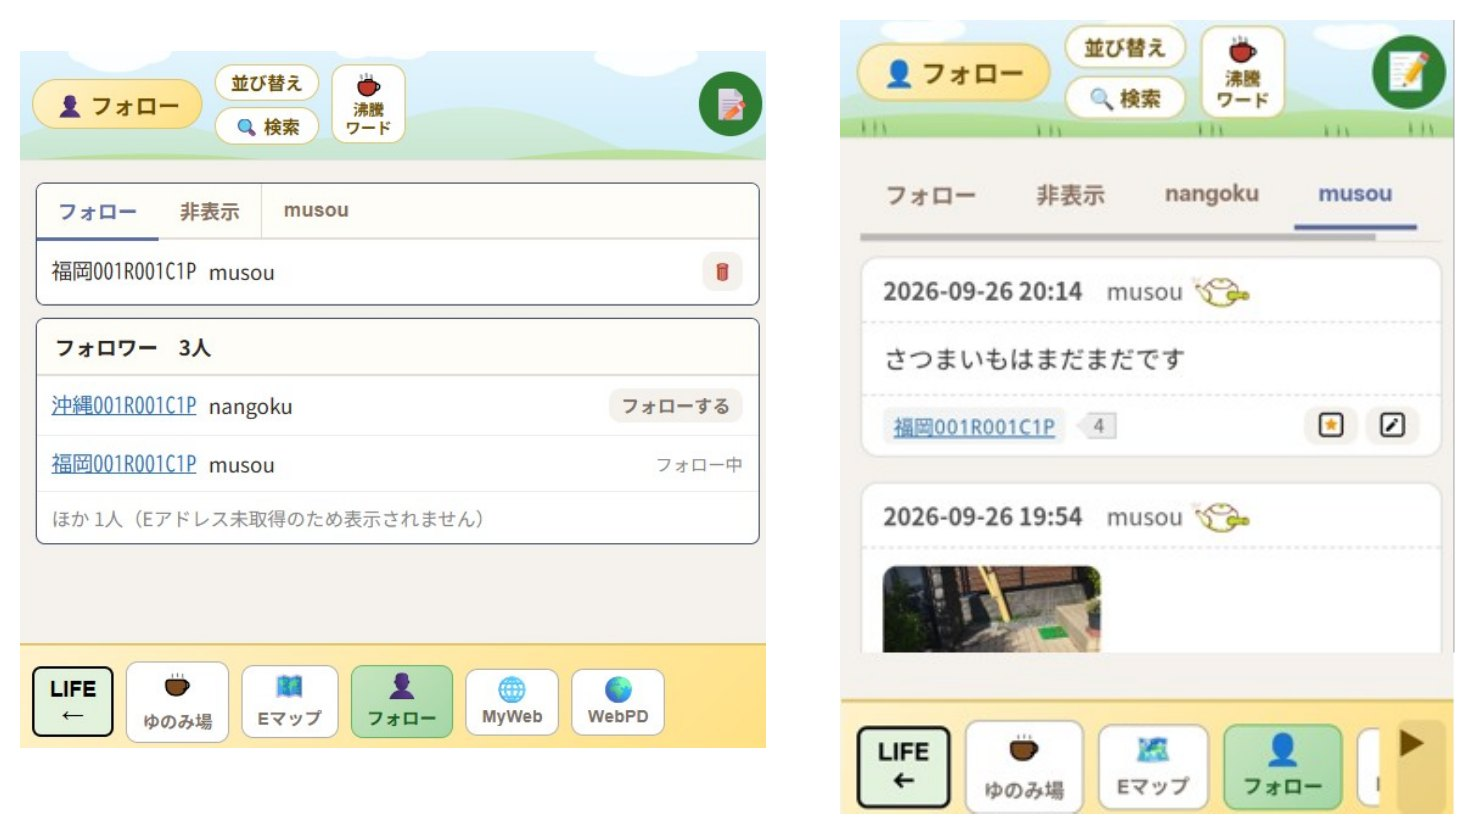
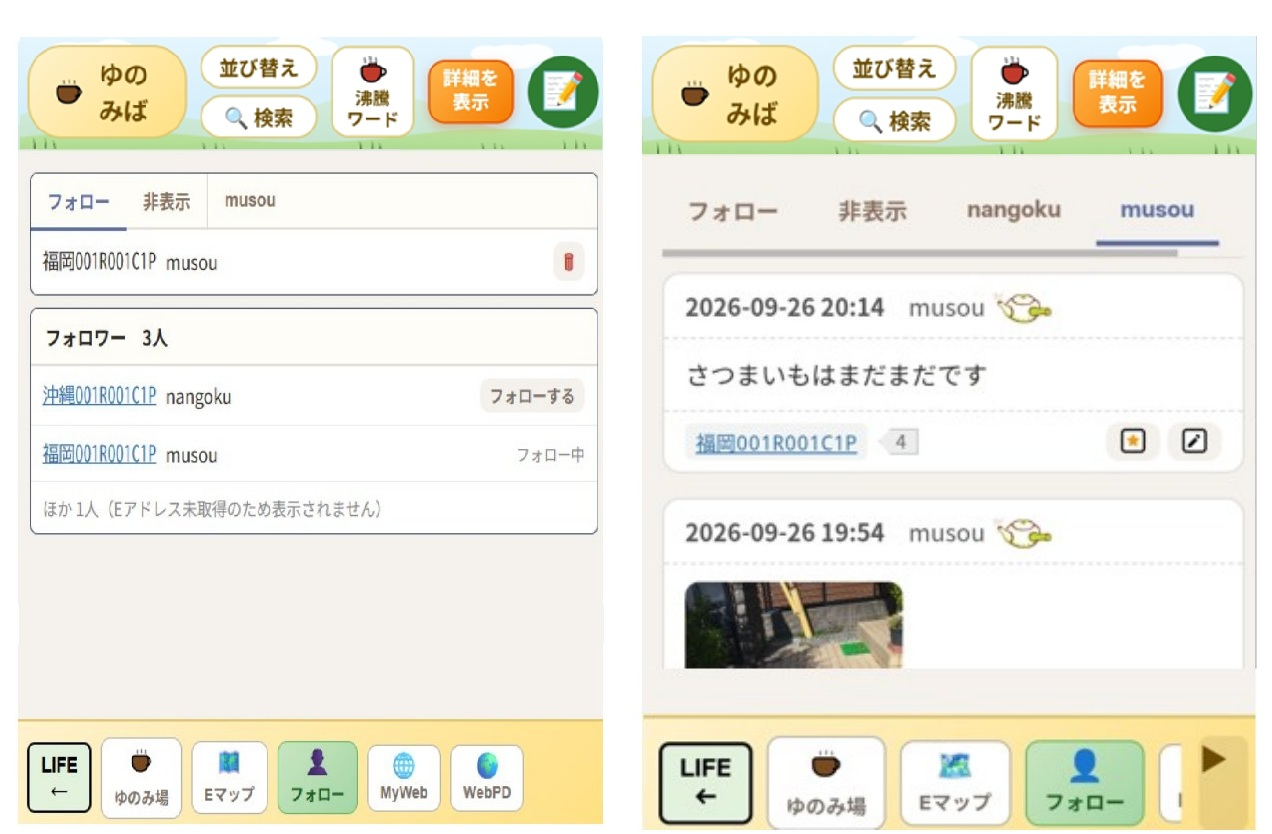
Add files via upload

diff --git a/index.html b/index.html
@@ -587,7 +587,7 @@
         <li>画面下部の切替ボタン：「WEB」「🌿 LIFE」「メール」の3つで、それぞれのモードに切り替わります</li>
         <li>LIFEモード選択タブ：日記帳・アルバム・連絡先などをここで切り替えます</li>
         <li>メールモード：メールタブを選択すると、LIFEモードから抜け、メール送受信、オンライン電話等が利用できます</li>
-        <li>オフラインメモ記への切り替え：飛行機内など電波の無い場所でもメモできます</li>
+        <li>オフライン日記帳への切り替え：オフラインモードで使え、飛行機内など電波の無い場所でもメモできます。（オフラインモードとはインターネット接続ができないモードのことです。）</li>
       </ul>
     </div>
   </div>
@@ -630,8 +630,8 @@
         </div>
       </div>
       <p style="margin-top:8px;color:var(--muted);font-size:.92rem;">
-        ＊「オフライン日記帳」を使えば、飛行機内など電波の入らない場所でも同じ感覚でメモし、過去記録も見れます。
-        　（オフライン日記帳は、それぞれのPC,スマホに記録します）
+        ＊「オフライン日記帳」を使えば、飛行機内など電波の入らない場所でも”メモ・日記”と同じ使い方で使用でき、過去記録も見れます。
+        　（オフライン日記帳は、それぞれのPC,スマホに記録しますのでインターネット環境は必要ありません）
       </p>
     </div>
   </div>
@@ -899,12 +899,13 @@
     <div class="tab-card" data-tab="ゆのみ場">
       <div class="feature">
         <div class="feature-copy">
-          <h3>気持ちで色が変わる、なんでも投稿広場。</h3>
+          <h3>気持ちで色が変わる、投稿広場。</h3>
           <ul>
             <li>「文字」「手書き」「写真」、好きなモードで気軽に投稿できます</li>
             <li>「並び順（自分／全体／インプレ数順）」「期間」「種類」で、見たい投稿を絞り込めます</li>
-            <li>気になる投稿主はワンタップでフォローでき、フォロー中の投稿だけを追うこともできます</li>
-            <li>各投稿にインプレッション数（見られた数）が表示されます。</li>
+            <li>"簡易表示”と”詳細表示”の二種類があり、起動時は”簡易表示です</li>
+            <li>”簡易表示”では投稿者名、投稿時刻とメッセージのみのすっきり表示です</li>
+            <li>”詳細表示”にすると、「Eアドレス」「インプレッション数」の表示、「リプライ」「フォロー」「削除」の操作ができます</li>
           </ul>
         </div>
         <div class="feature-media">
